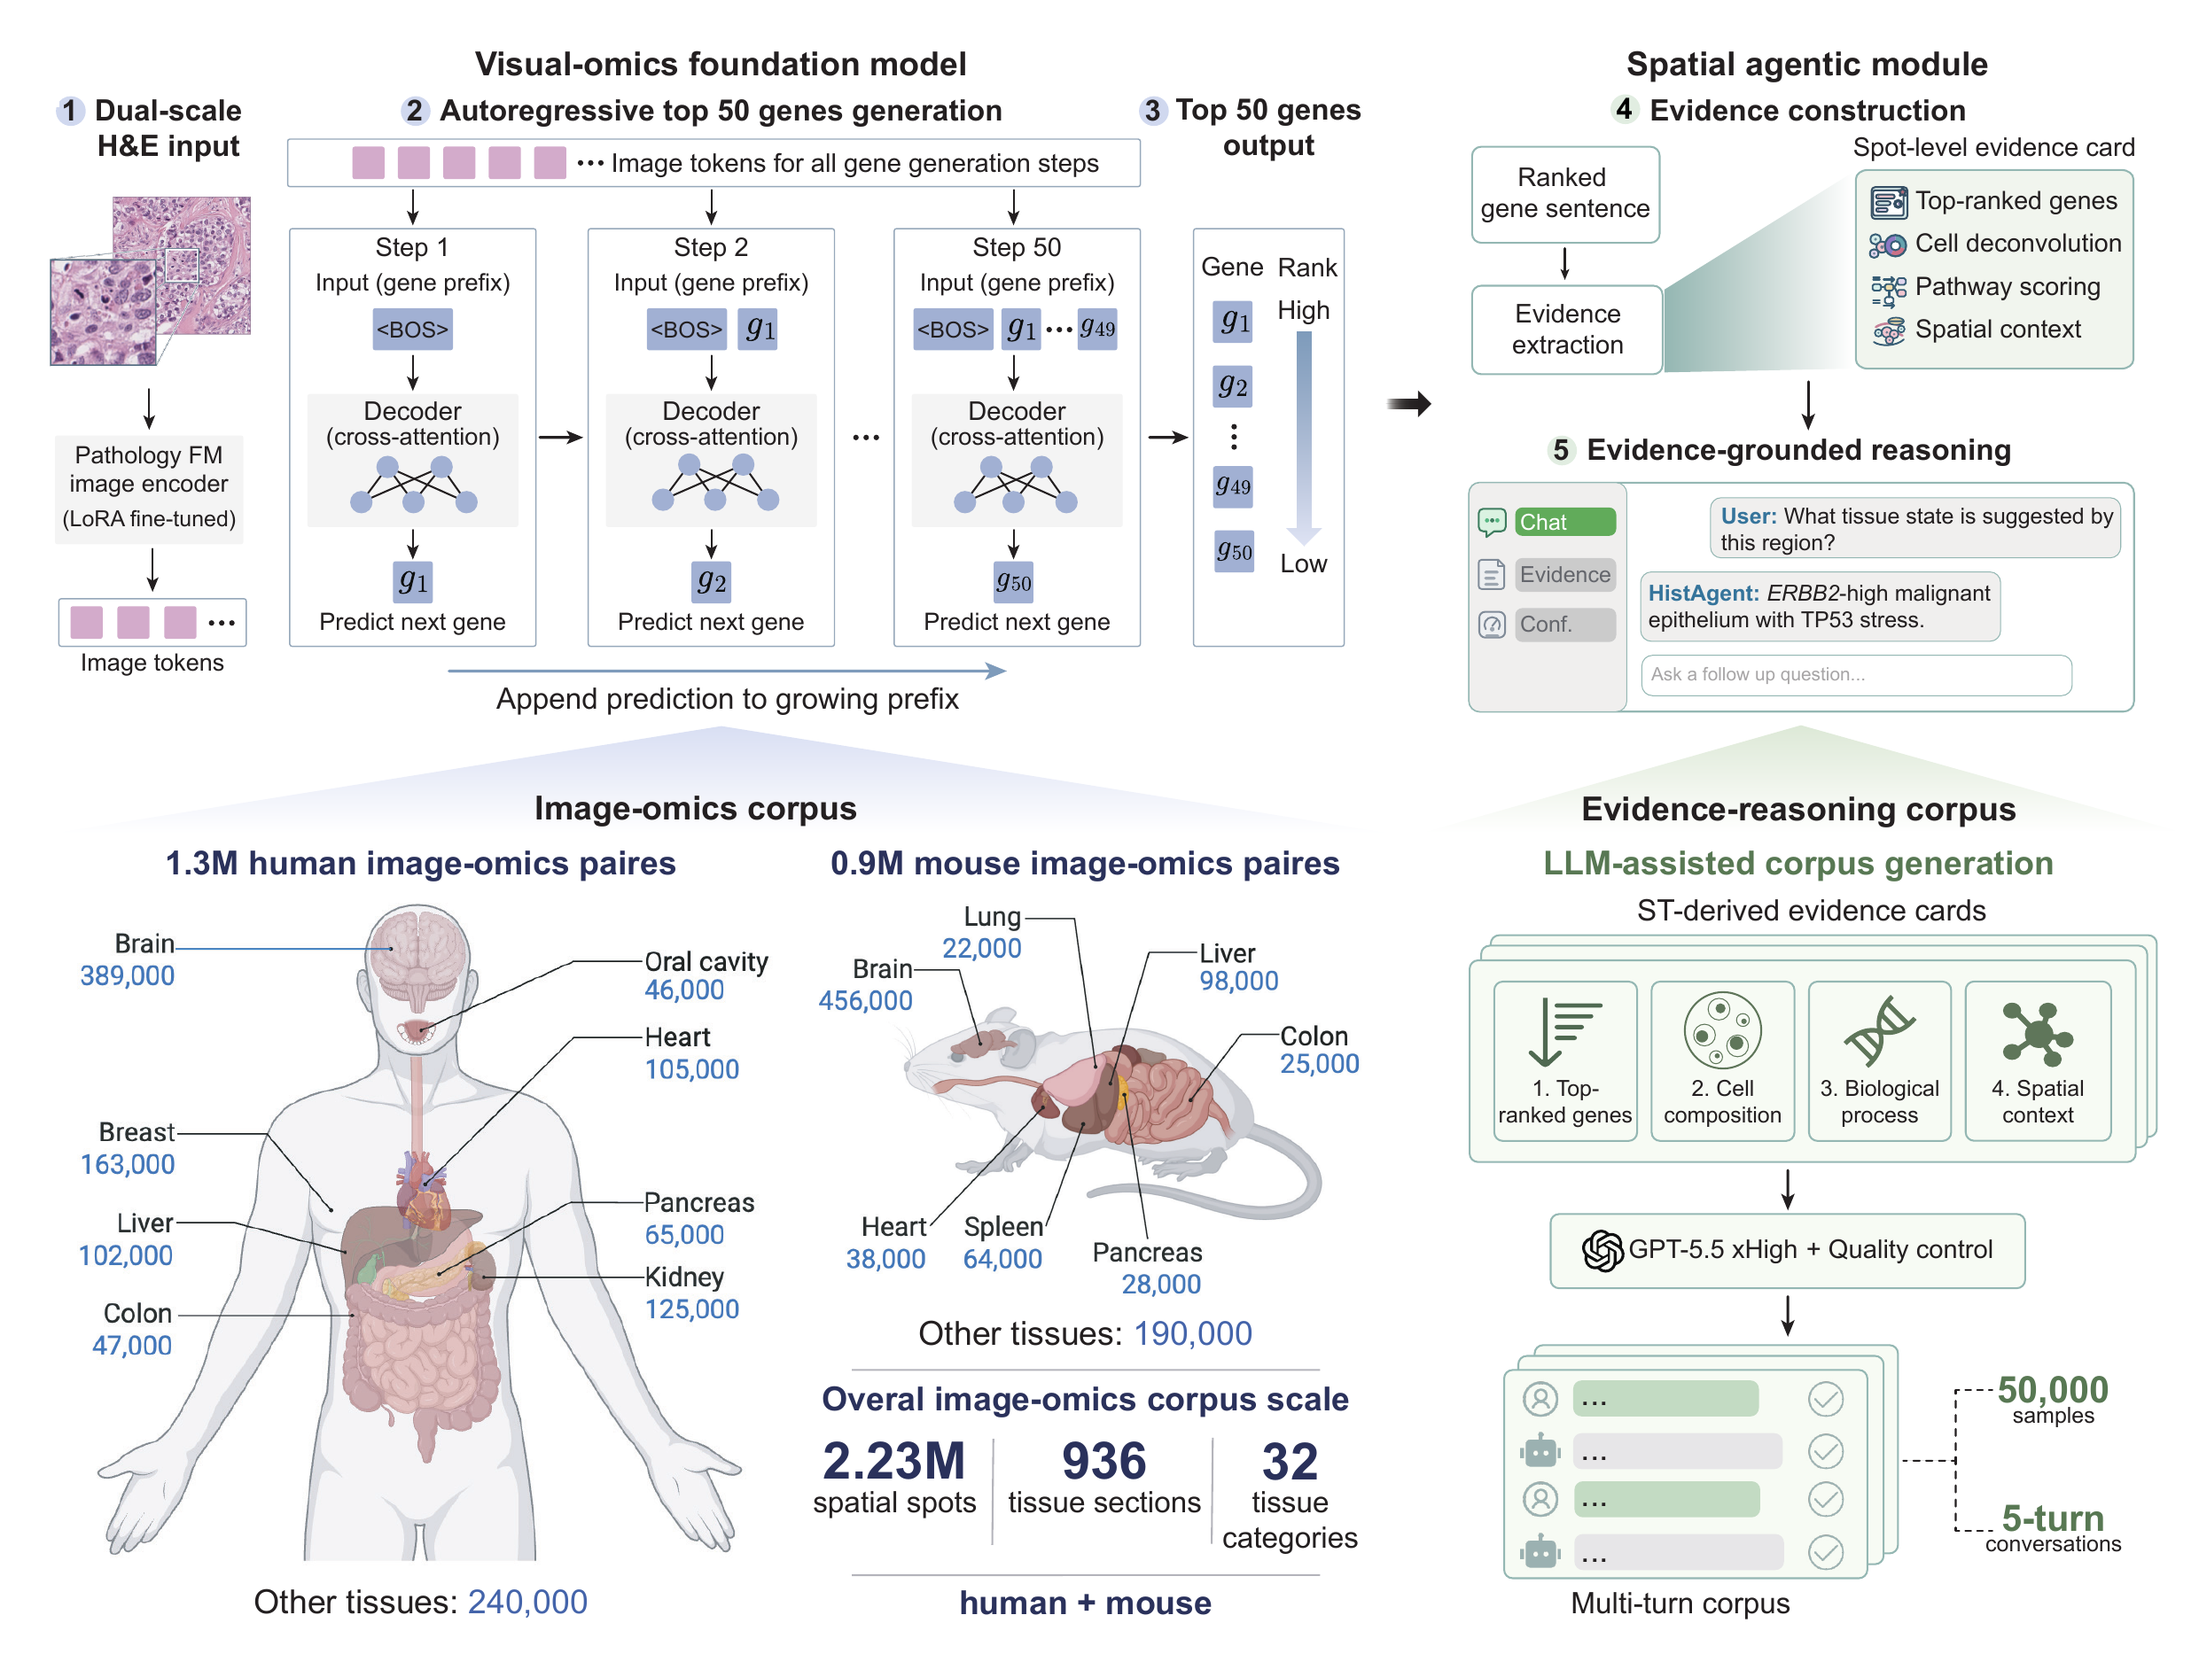
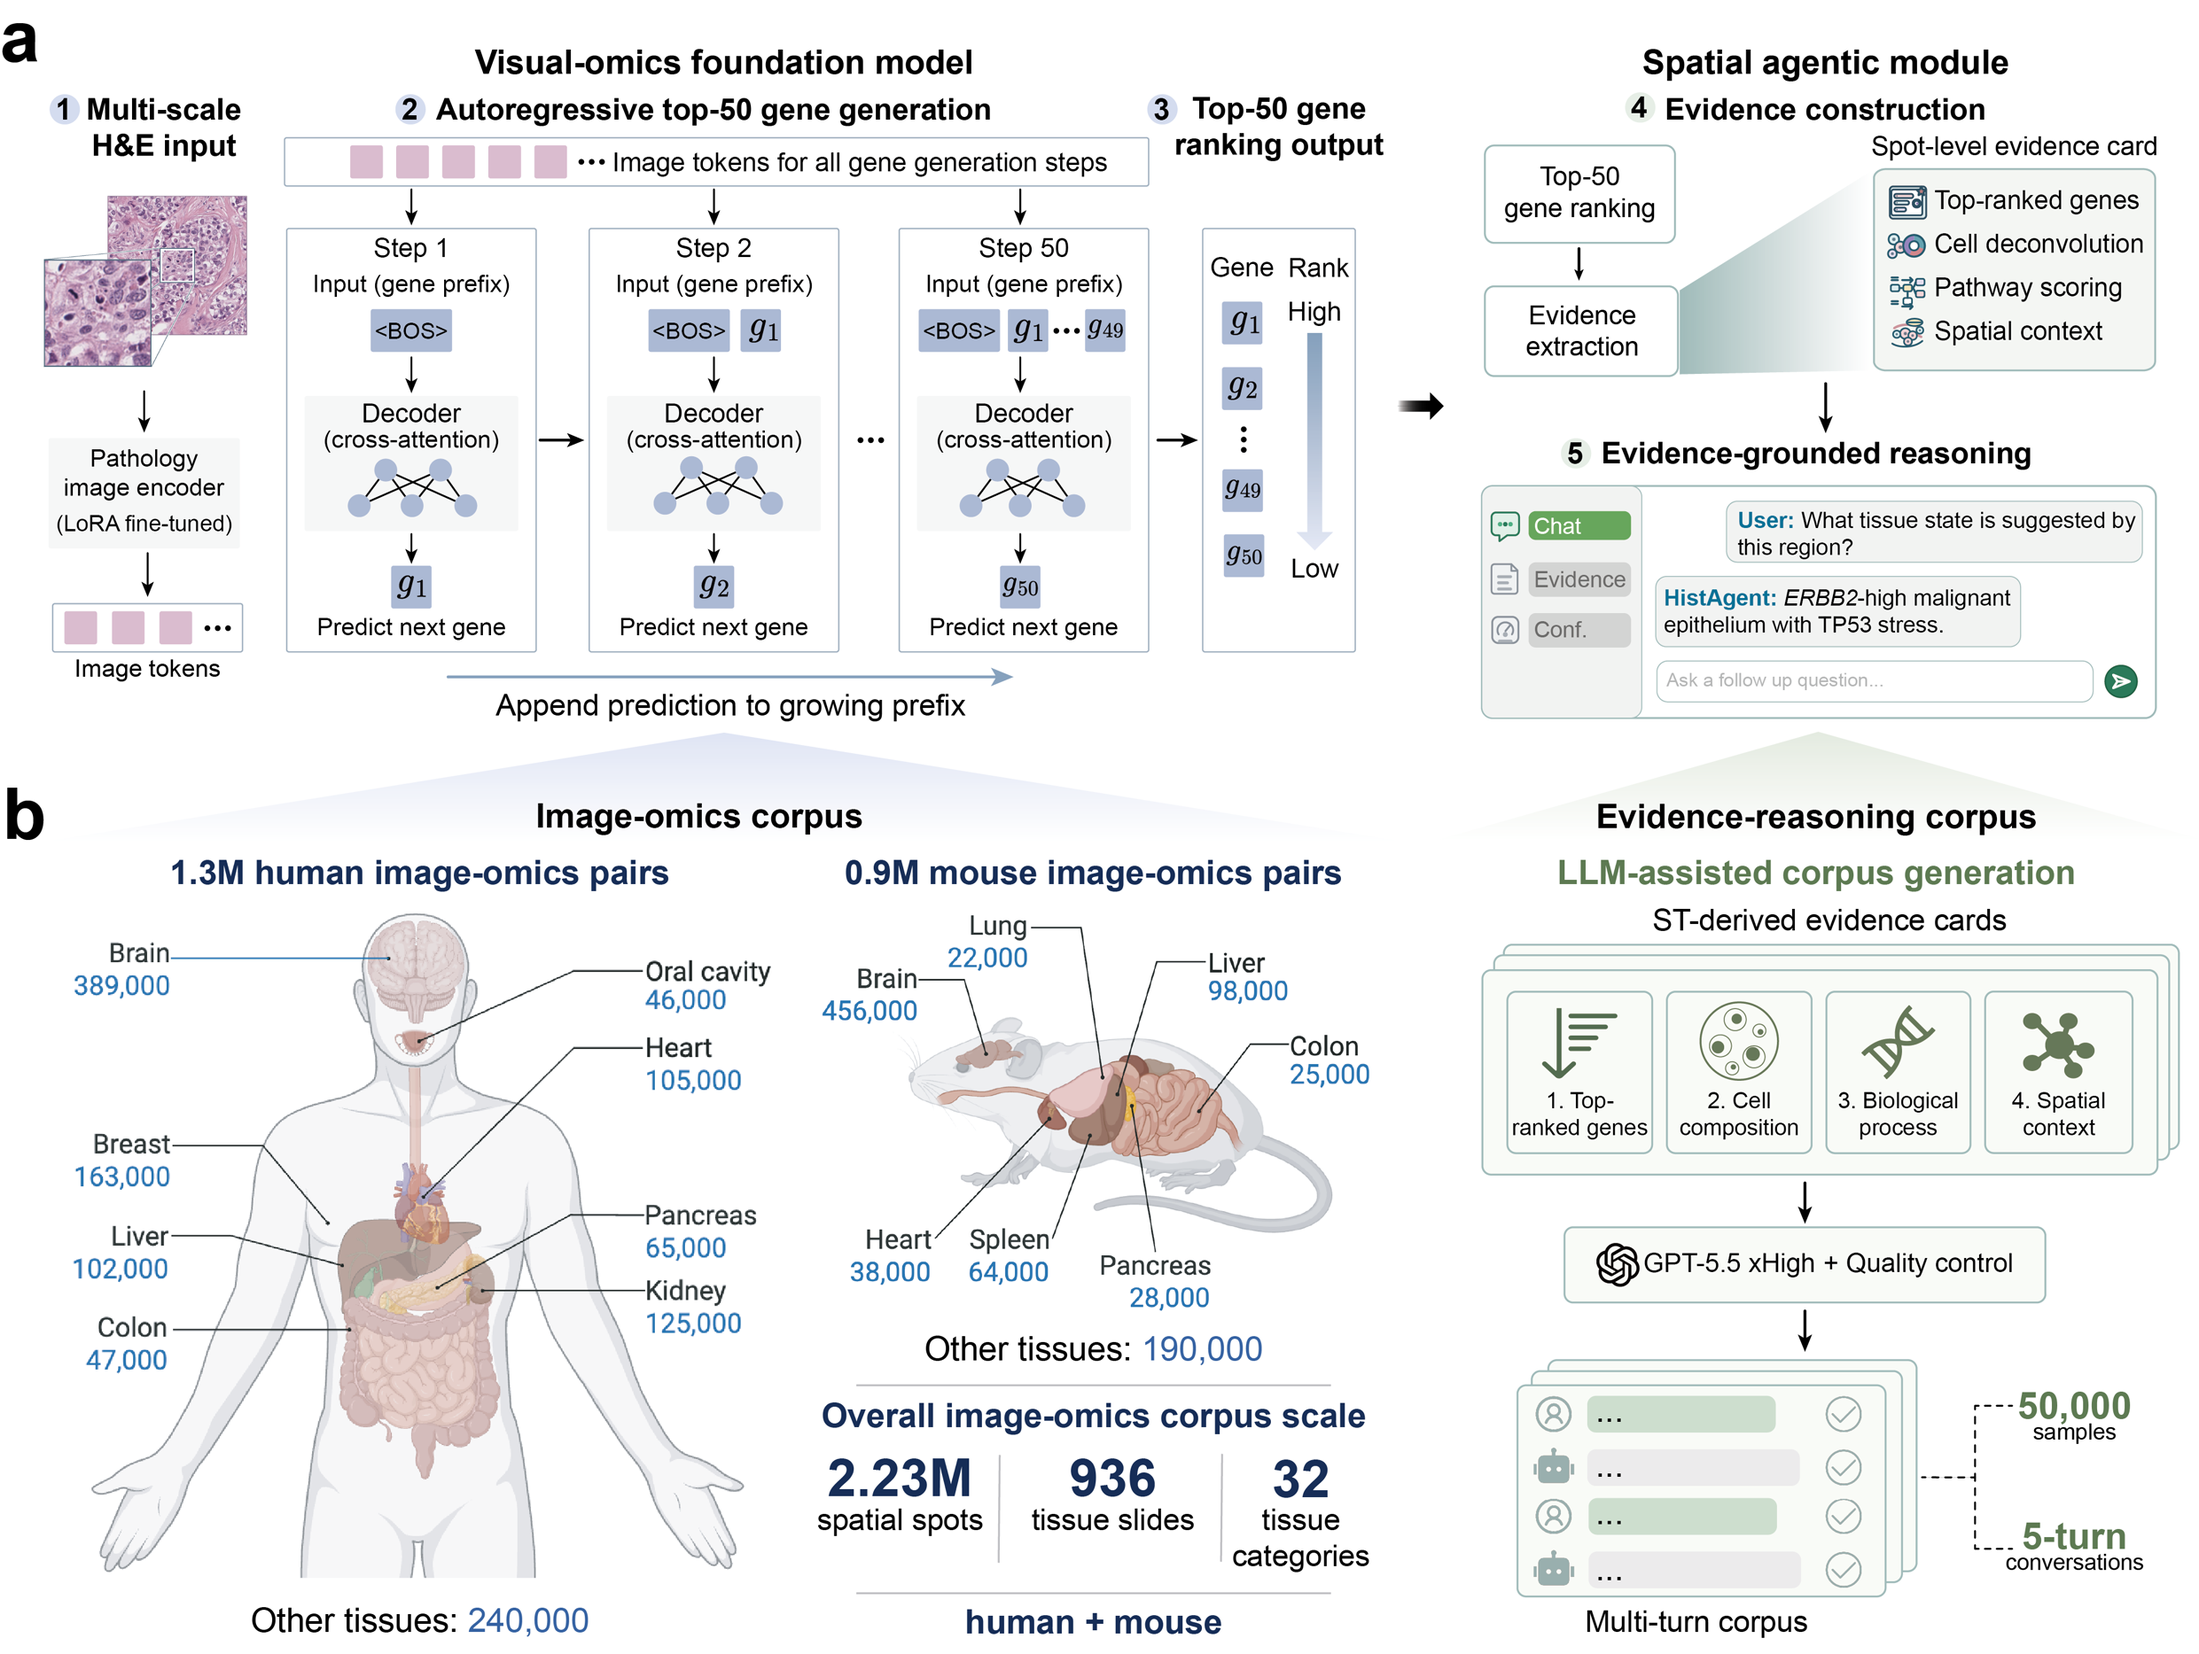
Update Figure 1 overview

diff --git a/README.md b/README.md
@@ -48,38 +48,6 @@ Across 135 held-out human and mouse ST slides from 15 organ cohorts, HistAgent m
 | Mean HitRate@50 | **0.699** | 0.292 | 0.410 |
 | Mean mAP@50 | **0.655** | 0.167 | 0.311 |
 
-## System requirements and tested environment
-
-HistAgent requires Python 3.10 or newer. The core package declares the following
-software dependencies in `pyproject.toml`:
-
-| Dependency | Declared version |
-|---|---|
-| PyTorch | `>=2.2` |
-| torchvision | `>=0.17` |
-| timm | `>=1.0.3` |
-| PEFT | `>=0.13,<0.14` |
-| huggingface-hub | `>=0.24` |
-| Pillow | `>=10` |
-| safetensors | `>=0.4` |
-
-The lightweight release checks were most recently run on macOS 26.2 (Apple silicon) with
-Python 3.12.4, PyTorch 2.13.0, torchvision 0.28.0, timm 1.0.28, PEFT 0.13.2,
-huggingface-hub 1.25.1, Pillow 12.0.0 and safetensors 0.8.0. All six lightweight
-tests passed in this environment. These tests cover tokenizer consistency,
-checkpoint export filtering and clinical utilities; access-controlled
-Prov-GigaPath loading is not exercised by the release test suite. The versions
-above record one tested QA environment rather than an exhaustive compatibility
-matrix. Full visual-omics training and GPU inference were run on Linux with
-NVIDIA CUDA GPUs; the released 30-epoch training run used eight NVIDIA H100
-80-GB GPUs.
-
-For visual-omics inference, an NVIDIA CUDA GPU with at least 24 GB of GPU memory
-is recommended. The API accepts `device="cpu"`, but CPU-only inference is not
-recommended and has not been benchmarked. Local use of the Qwen3-8B language
-adapter similarly requires a CUDA GPU with approximately 20 GB of free GPU
-memory. Windows has not been tested.
-
 ## Installation
 
 ```bash
@@ -94,34 +62,14 @@ Prov-GigaPath is gated on Hugging Face. Before first use, request access on the 
 export HF_TOKEN="your_read_token"
 ```
 
-Allow approximately 5--15 min to install the Python package on a broadband
-connection; the actual time depends mainly on whether a compatible PyTorch
-installation is already present. This estimate excludes the time required to
-obtain access to the gated Prov-GigaPath repository. The first model load
-downloads the 378-MB HistAgent checkpoint and the several-gigabyte Prov-GigaPath
-checkpoint; download time is network dependent. Subsequent runs use the local
-Hugging Face cache.
-
 ## Quick start
 
 HistAgent receives two H&E crops centred on the same location: a local view and a broader context view. Both are converted to 224 × 224 pixels before encoding.
 
 ```python
 import torch
-from huggingface_hub import hf_hub_download
 
 from histagent import load_pretrained, predict_ranked_genes
-
-local_image = hf_hub_download(
-    "wli13/HistAgent-data",
-    "tutorials/figure5_he_query_brain_local.png",
-    repo_type="dataset",
-)
-context_image = hf_hub_download(
-    "wli13/HistAgent-data",
-    "tutorials/figure5_he_query_brain_context.png",
-    repo_type="dataset",
-)
 
 device = "cuda" if torch.cuda.is_available() else "cpu"
 model, tokenizer, _ = load_pretrained(device=device)
@@ -129,9 +77,9 @@ model, tokenizer, _ = load_pretrained(device=device)
 genes = predict_ranked_genes(
     model,
     tokenizer,
-    local_image=local_image,
-    context_image=context_image,
-    organ="brain",
+    local_image="examples/local.png",
+    context_image="examples/context.png",
+    organ="breast",
     species="human",
     top_k=50,
     device=device,
@@ -142,37 +90,14 @@ print(genes)
 The same inference is available from the command line:
 
 ```bash
-hf download wli13/HistAgent-data \
-  tutorials/figure5_he_query_brain_local.png \
-  tutorials/figure5_he_query_brain_context.png \
-  --type dataset \
-  --local-dir demo_data
-
 histagent-predict \
-  --local demo_data/tutorials/figure5_he_query_brain_local.png \
-  --context demo_data/tutorials/figure5_he_query_brain_context.png \
-  --organ brain \
+  --local examples/local.png \
+  --context examples/context.png \
+  --organ breast \
   --species human
 ```
 
 To use an already downloaded GigaPath checkpoint, pass `base_checkpoint_path` to `load_pretrained` or `--base-checkpoint` to the command-line interface.
-
-### Expected demo output and run time
-
-The Python demo returns a list of up to 50 gene symbols ordered from the
-highest-ranked to the lowest-ranked prediction. The command-line interface prints
-the same genes as one space-delimited line, for example:
-
-```text
-GENE_1 GENE_2 ... GENE_50
-```
-
-The exact genes are model predictions and depend on the input image pair, organ
-and species. The public [HistAgent demo](https://huggingface.co/spaces/wli13/HistAgent-demo)
-uses an NVIDIA A10G 24-GB GPU and requests a GPU allocation of up to 180 s for one
-image pair. Queueing, cold-start and initial model-download times are additional
-and depend on service load and network speed. CPU-only demo run time has not been
-characterized.
 
 ## Clinical prediction API
 
@@ -243,18 +168,11 @@ HistAgent/
 
 ## Training configuration
 
-The released model was trained for 30 epochs on 2.23 million paired H&E–ST locations from 936 human and mouse 10x Visium slides. The complete training run required approximately 103 h on eight NVIDIA H100 GPUs. The model uses a shared GigaPath tile encoder with rank-16 LoRA, separate local and context resamplers, and a six-layer Transformer decoder. Earlier positions in each gene sentence receive greater weight during training.
+The released model was trained for 30 epochs on 2.23 million paired H&E–ST locations from 936 human and mouse 10x Visium slides. The complete training run required approximately 103 h on eight NVIDIA H100 GPUs. The model uses a shared GigaPath tile encoder with rank-16 LoRA, separate local and context resamplers, and a six-layer Transformer decoder. Earlier positions in each generated ranking receive greater weight during training.
 
 ## Citation
 
 The HistAgent manuscript and citation will be added here when publicly available.
-
-## License
-
-HistAgent source code is released under the
-[Apache License 2.0](LICENSE). Third-party models and datasets are not
-relicensed by this repository and remain subject to their original licenses,
-access conditions and terms of use.
 
 ## Acknowledgements
 
